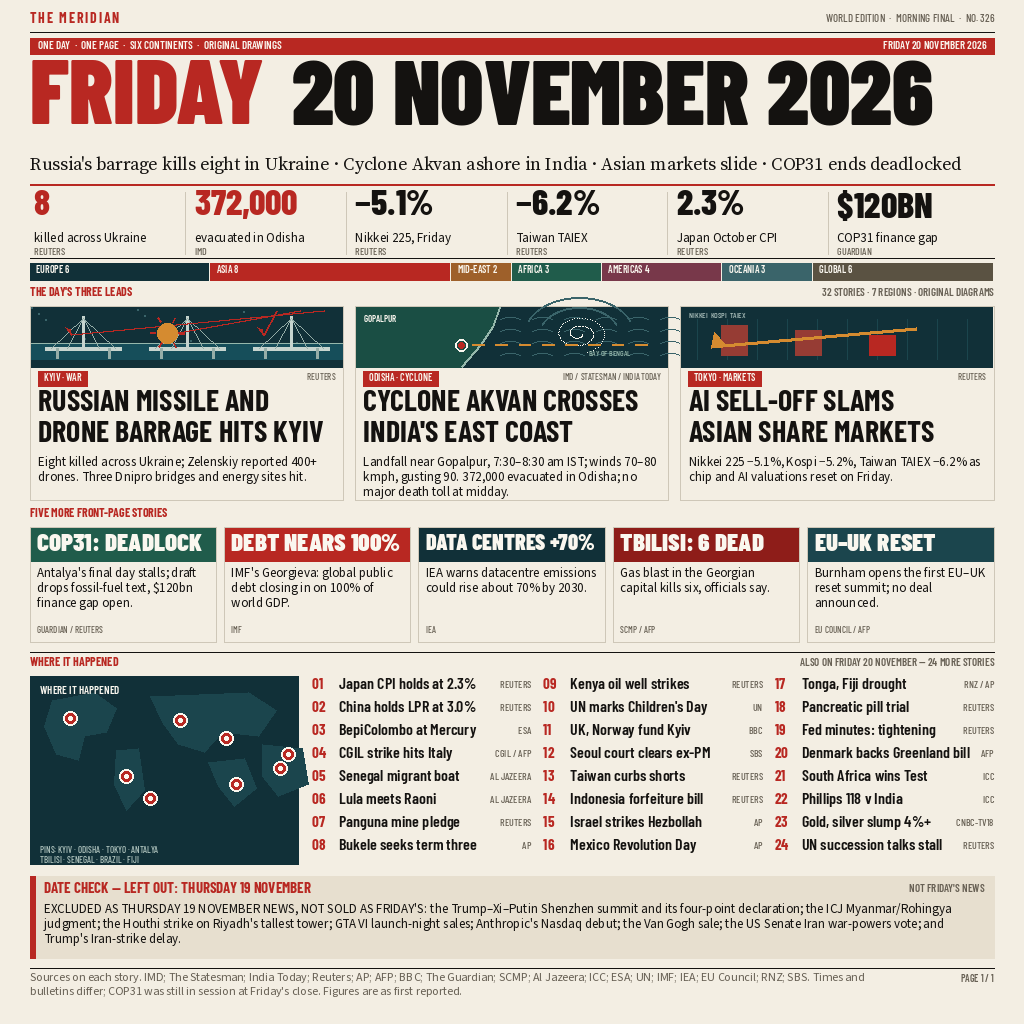
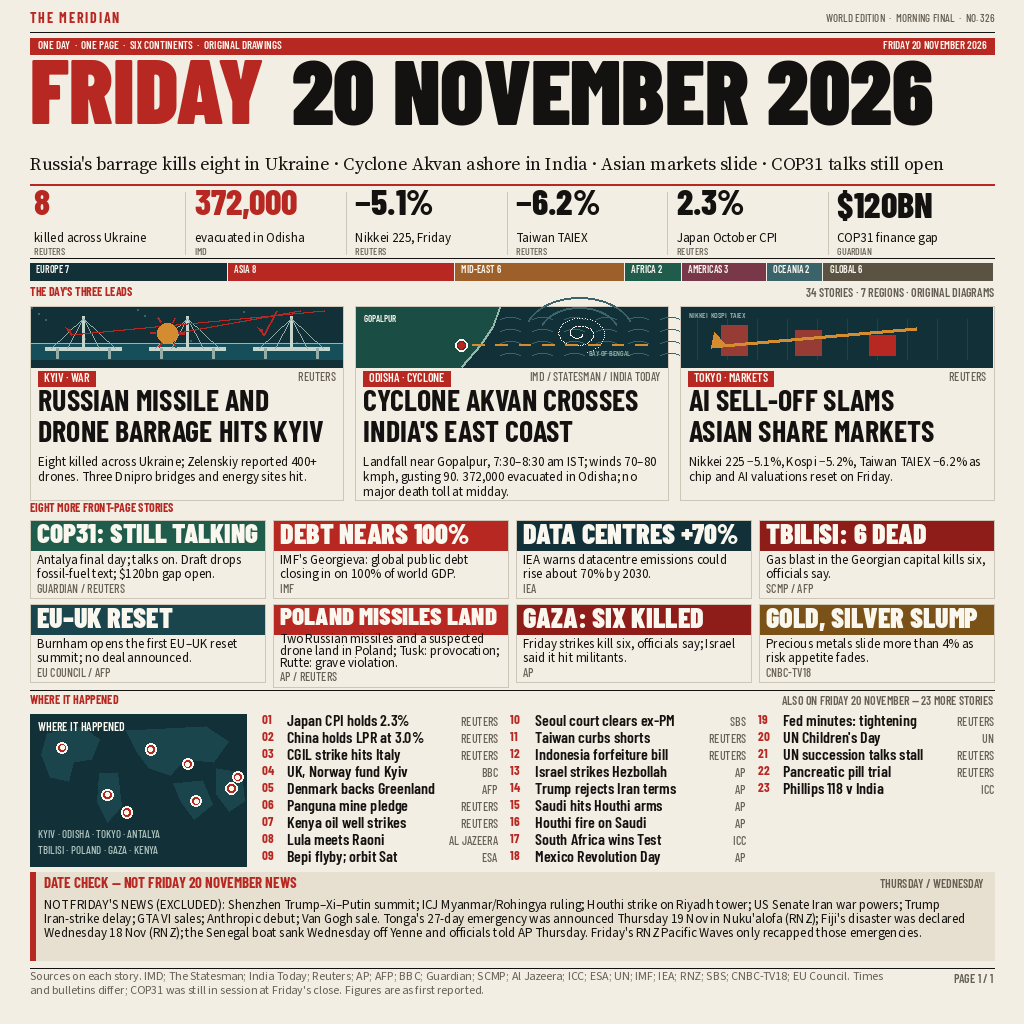
Drop Thursday Pacific items and thicken the Friday mid-grid
Tonga, Fiji and the Senegal boat leave the Friday list and enter the
date-check. COP31 now reads as talks still open. Eight short banner
cards sit in two rows so titles stay legible at 300px, with confirmed
Friday items on Poland, Gaza, Iran and the Saudi-Houthi exchanges.

diff --git a/tools/gen_entry.py b/tools/gen_entry.py
@@ -2,7 +2,7 @@
 """Rebuild The Meridian's Friday 20 November 2026 world-news front page.
 
 Offline, deterministic, local fonts only, 1024x1024 PNG.
-Typographic-first: the date, six figures, three leads and five banners are
+Typographic-first: the date, six figures, three leads and eight banner cards are
 drawn large enough to survive a reduction to roughly 300 pixels across.
 Illustrations are simple original diagrams, secondary to the type.
 """
@@ -26,6 +26,7 @@ MUTED = (103, 96, 84)
 FAINT = (206, 199, 184)
 TINT = (231, 223, 207)
 AMBER = (213, 139, 48)
+OCHRE = (122, 82, 24)
 GREEN = (32, 92, 75)
 WHITE = (250, 247, 239)
 
@@ -137,7 +138,7 @@ def tag(d, x, y, label, fill=RED, size=10.0):
     return wd
 
 
-def banner_font(s, maxw, hi=25, lo=19):
+def banner_font(s, maxw, hi=28, lo=22):
     for sz in range(hi, lo - 1, -1):
         f = F(DISPLAY, sz)
         if f.getlength(s) <= maxw:
@@ -221,25 +222,27 @@ def diag_markets(d, x, y, w, h):
 
 
 def draw_map(d, x, y, w, h):
+    sx, sy = w / 268.0, h / 188.0
     d.rectangle([x, y, x + w, y + h], fill=PETROL)
     shapes = [
         [(22, 24), (64, 16), (86, 32), (76, 56), (54, 60), (48, 84), (26, 78), (14, 50)],
         [(86, 74), (108, 72), (114, 114), (96, 134), (84, 108)],
         [(120, 20), (218, 16), (246, 34), (228, 60), (192, 56), (174, 76), (148, 68), (132, 46)],
         [(178, 86), (214, 82), (226, 112), (204, 130), (188, 110)],
-        [(232, 68), (272, 72), (278, 108), (248, 120), (232, 100)],
+        [(232, 68), (262, 72), (266, 108), (248, 120), (232, 100)],
     ]
     for pts in shapes:
-        d.polygon([(x + px, y + py) for px, py in pts], fill=PETROL2)
-    pins = [(40, 42, 1), (96, 100, 2), (150, 44, 3), (196, 62, 4),
-            (250, 92, 5), (206, 108, 6), (120, 122, 7), (258, 78, 8)]
-    for px, py, _ in pins:
-        ax, ay = x + px, y + py
-        d.ellipse([ax - 7, ay - 7, ax + 7, ay + 7], fill=RED, outline=WHITE, width=2)
+        d.polygon([(x + px * sx, y + py * sy) for px, py in pts], fill=PETROL2)
+    pins = [(40, 42), (96, 100), (150, 44), (196, 62),
+            (250, 92), (206, 108), (120, 122), (258, 78)]
+    r = max(4, 7 * min(sx, sy))
+    for px, py in pins:
+        ax, ay = x + px * sx, y + py * sy
+        d.ellipse([ax - r, ay - r, ax + r, ay + r], fill=RED, outline=WHITE, width=2)
         d.ellipse([ax - 2, ay - 2, ax + 2, ay + 2], fill=WHITE)
-    text(d, (x + 10, y + 10), "WHERE IT HAPPENED", F(SMALL, 11), WHITE)
-    text(d, (x + 10, y + h - 18), "PINS: KYIV \u00b7 ODISHA \u00b7 TOKYO \u00b7 ANTALYA", F(MICRO, 9), (176, 196, 190))
-    text(d, (x + 10, y + h - 8), "TBILISI \u00b7 SENEGAL \u00b7 BRAZIL \u00b7 FIJI", F(MICRO, 9), (176, 196, 190))
+    text(d, (x + 8, y + 8), "WHERE IT HAPPENED", F(SMALL, 12), WHITE)
+    text(d, (x + 8, y + h - 36), "KYIV \u00b7 ODISHA \u00b7 TOKYO \u00b7 ANTALYA", F(MICRO, 11), (176, 196, 190))
+    text(d, (x + 8, y + h - 20), "TBILISI \u00b7 POLAND \u00b7 GAZA \u00b7 KENYA", F(MICRO, 11), (176, 196, 190))
 
 
 # ------------------------------------------------------------------ content
@@ -274,8 +277,8 @@ LEADS = [
 ]
 
 BANNERS = [
-    dict(banner="COP31: DEADLOCK", fill=GREEN,
-         head="Antalya's final day stalls; draft drops fossil-fuel text, $120bn finance gap open.",
+    dict(banner="COP31: STILL TALKING", fill=GREEN,
+         head="Antalya final day; talks on. Draft drops fossil-fuel text; $120bn gap open.",
          source="GUARDIAN / REUTERS", region="MID-EAST"),
     dict(banner="DEBT NEARS 100%", fill=RED,
          head="IMF's Georgieva: global public debt closing in on 100% of world GDP.",
@@ -289,45 +292,54 @@ BANNERS = [
     dict(banner="EU\u2013UK RESET", fill=PETROL2,
          head="Burnham opens the first EU\u2013UK reset summit; no deal announced.",
          source="EU COUNCIL / AFP", region="EUROPE"),
+    dict(banner="POLAND MISSILES LAND", fill=RED,
+          head="Two Russian missiles and a suspected drone land in Poland; Tusk: provocation; Rutte: grave violation.",
+          source="AP / REUTERS", region="EUROPE"),
+    dict(banner="GAZA: SIX KILLED", fill=RED_D,
+         head="Friday strikes kill six, officials say; Israel said it hit militants.",
+         source="AP", region="MID-EAST"),
+    dict(banner="GOLD, SILVER SLUMP", fill=OCHRE,
+         head="Precious metals slide more than 4% as risk appetite fades.",
+         source="CNBC-TV18", region="ASIA"),
 ]
 
 MORE = [
-    ("Japan CPI holds at 2.3%", "REUTERS", "ASIA"),
+    ("Japan CPI holds 2.3%", "REUTERS", "ASIA"),
     ("China holds LPR at 3.0%", "REUTERS", "ASIA"),
-    ("BepiColombo at Mercury", "ESA", "GLOBAL"),
-    ("CGIL strike hits Italy", "CGIL / AFP", "EUROPE"),
-    ("Senegal migrant boat", "AL JAZEERA", "AFRICA"),
-    ("Lula meets Raoni", "AL JAZEERA", "AMERICAS"),
-    ("Panguna mine pledge", "REUTERS", "OCEANIA"),
-    ("Bukele seeks term three", "AP", "AMERICAS"),
-    ("Kenya oil well strikes", "REUTERS", "AFRICA"),
-    ("UN marks Children's Day", "UN", "GLOBAL"),
+    ("CGIL strike hits Italy", "REUTERS", "EUROPE"),
     ("UK, Norway fund Kyiv", "BBC", "EUROPE"),
+    ("Denmark backs Greenland", "AFP", "EUROPE"),
+    ("Panguna mine pledge", "REUTERS", "OCEANIA"),
+    ("Kenya oil well strikes", "REUTERS", "AFRICA"),
+    ("Lula meets Raoni", "AL JAZEERA", "AMERICAS"),
+    ("Bepi flyby; orbit Sat", "ESA", "GLOBAL"),
     ("Seoul court clears ex-PM", "SBS", "ASIA"),
     ("Taiwan curbs shorts", "REUTERS", "ASIA"),
     ("Indonesia forfeiture bill", "REUTERS", "ASIA"),
     ("Israel strikes Hezbollah", "AP", "MID-EAST"),
-    ("Mexico Revolution Day", "AP", "AMERICAS"),
-    ("Tonga, Fiji drought", "RNZ / AP", "OCEANIA"),
-    ("Pancreatic pill trial", "REUTERS", "GLOBAL"),
-    ("Fed minutes: tightening", "REUTERS", "AMERICAS"),
-    ("Denmark backs Greenland bill", "AFP", "EUROPE"),
+    ("Trump rejects Iran terms", "AP", "MID-EAST"),
+    ("Saudi hits Houthi arms", "AP", "MID-EAST"),
+    ("Houthi fire on Saudi", "AP", "MID-EAST"),
     ("South Africa wins Test", "ICC", "AFRICA"),
-    ("Phillips 118 v India", "ICC", "OCEANIA"),
-    ("Gold, silver slump 4%+", "CNBC-TV18", "ASIA"),
+    ("Mexico Revolution Day", "AP", "AMERICAS"),
+    ("Fed minutes: tightening", "REUTERS", "AMERICAS"),
+    ("UN Children's Day", "UN", "GLOBAL"),
     ("UN succession talks stall", "REUTERS", "GLOBAL"),
+    ("Pancreatic pill trial", "REUTERS", "GLOBAL"),
+    ("Phillips 118 v India", "ICC", "OCEANIA"),
 ]
 
 DATE_CHECK = (
-    "EXCLUDED AS THURSDAY 19 NOVEMBER NEWS, NOT SOLD AS FRIDAY'S: the Trump\u2013Xi\u2013Putin Shenzhen "
-    "summit and its four-point declaration; the ICJ Myanmar/Rohingya judgment; the Houthi strike on "
-    "Riyadh's tallest tower; GTA VI launch-night sales; Anthropic's Nasdaq debut; the Van Gogh sale; "
-    "the US Senate Iran war-powers vote; and Trump's Iran-strike delay."
+    "NOT FRIDAY'S NEWS (EXCLUDED): Shenzhen Trump\u2013Xi\u2013Putin summit; ICJ Myanmar/Rohingya ruling; "
+    "Houthi strike on Riyadh tower; US Senate Iran war powers; Trump Iran-strike delay; GTA VI sales; "
+    "Anthropic debut; Van Gogh sale. Tonga's 27-day emergency was announced Thursday 19 Nov in "
+    "Nuku'alofa (RNZ); Fiji's disaster was declared Wednesday 18 Nov (RNZ); the Senegal boat sank "
+    "Wednesday off Yenne and officials told AP Thursday. Friday's RNZ Pacific Waves only recapped those emergencies."
 )
 
 SOURCES = (
-    "Sources on each story. IMD; The Statesman; India Today; Reuters; AP; AFP; BBC; The Guardian; "
-    "SCMP; Al Jazeera; ICC; ESA; UN; IMF; IEA; EU Council; RNZ; SBS. "
+    "Sources on each story. IMD; The Statesman; India Today; Reuters; AP; AFP; BBC; Guardian; "
+    "SCMP; Al Jazeera; ICC; ESA; UN; IMF; IEA; RNZ; SBS; CNBC-TV18; EU Council. "
     "Times and bulletins differ; COP31 was still in session at Friday's close. Figures are as first reported."
 )
 
@@ -355,7 +367,7 @@ text(d, (M + fw + 10, 60), "20 NOVEMBER 2026", date_font, INK)
 
 # one-line deck
 text(d, (M, 156),
-     "Russia's barrage kills eight in Ukraine \u00b7 Cyclone Akvan ashore in India \u00b7 Asian markets slide \u00b7 COP31 ends deadlocked",
+     "Russia's barrage kills eight in Ukraine \u00b7 Cyclone Akvan ashore in India \u00b7 Asian markets slide \u00b7 COP31 talks still open",
      F(SERIF, 18), INK)
 rule(d, M, 184, W - M, 184, 2, RED)
 
@@ -388,7 +400,7 @@ for label, n, col in bar:
 
 # three leads
 text(d, (M, 287), "THE DAY'S THREE LEADS", F(HEADB, 12), RED)
-text(d, (W - M, 288), f"{len(LEADS) + len(BANNERS) + len(MORE)} STORIES \u00b7 {len(REGIONS)} REGIONS \u00b7 ORIGINAL DIAGRAMS", F(SMALL, 11), MUTED, anchor="rt")
+text(d, (W - M, 288), f"{len(LEADS) + len(BANNERS) + len(MORE)} STORIES \u00b7 {len(REGIONS)} REGIONS \u00b7 ORIGINAL DIAGRAMS", F(SMALL, 12), MUTED, anchor="rt")
 
 lgap = 12
 lw = (CW - 2 * lgap) / 3
@@ -396,55 +408,63 @@ for i, feat in enumerate(LEADS):
     lx = M + i * (lw + lgap)
     d.rectangle([lx, 306, lx + lw, 500], outline=FAINT, width=1)
     feat["diagram"](d, int(lx) + 1, 307, int(lw) - 2, 60)
-    tw = tag(d, int(lx) + 8, 371, feat["tag"], fill=feat["tagc"], size=10)
-    text(d, (lx + lw - 8, 373), feat["source"], F(MICRO, 9), MUTED, anchor="rt")
+    tw = tag(d, int(lx) + 8, 371, feat["tag"], fill=feat["tagc"], size=12)
+    text(d, (lx + lw - 8, 372), feat["source"], F(MICRO, 12), MUTED, anchor="rt")
     for j, line in enumerate(feat["head"].split("\n")):
         text(d, (lx + 8, 390 + j * 31), line, F(HEADB, 30), INK)
     para(d, feat["deck"], F(SANS, 13), lx + 8, 456, lw - 16, 15, INK, max_lines=3)
 
-# five banner cards
-text(d, (M, 508), "FIVE MORE FRONT-PAGE STORIES", F(HEADB, 12), RED)
+# eight banner cards, two rows of four
+text(d, (M, 503), "EIGHT MORE FRONT-PAGE STORIES", F(HEADB, 12), RED)
 bgap = 8
-bw = (CW - 4 * bgap) / 5
+bw = (CW - 3 * bgap) / 4
 for i, card in enumerate(BANNERS):
-    bx = M + i * (bw + bgap)
-    d.rectangle([bx, 527, bx + bw, 642], outline=FAINT, width=1)
-    d.rectangle([bx + 1, 528, bx + bw - 1, 561], fill=card["fill"])
+    row, col = divmod(i, 4)
+    by0 = 520 + row * 84
+    bx = M + col * (bw + bgap)
+    bodyf = F(SANS, 13)
+    tight = len(wrap(card["head"], bodyf, bw - 14)) > 2
+    d.rectangle([bx, by0, bx + bw, by0 + (83 if tight else 78)], outline=FAINT, width=1)
+    d.rectangle([bx + 1, by0 + 1, bx + bw - 1, by0 + 30], fill=card["fill"])
     bf = banner_font(card["banner"], bw - 14)
-    text(d, (bx + 7, 534), card["banner"], bf, WHITE)
-    para(d, card["head"], F(SANS, 13), bx + 7, 567, bw - 14, 15, INK, max_lines=3)
-    text(d, (bx + 7, 626), card["source"], F(MICRO, 9), MUTED)
+    text(d, (bx + 7, by0 + 4), card["banner"], bf, WHITE)
+    if tight:
+        para(d, card["head"], bodyf, bx + 7, by0 + 29, bw - 14, 12, INK, max_lines=3)
+        text(d, (bx + 7, by0 + 68), card["source"], F(MICRO, 12), MUTED)
+    else:
+        para(d, card["head"], bodyf, bx + 7, by0 + 34, bw - 14, 14, INK, max_lines=3)
+        text(d, (bx + 7, by0 + 64), card["source"], F(MICRO, 12), MUTED)
 
 # where it happened / also on Friday
-rule(d, M, 652, W - M, 652, 1, INK)
-text(d, (M, 657), "WHERE IT HAPPENED", F(HEADB, 12), RED)
-text(d, (W - M, 658), f"ALSO ON FRIDAY 20 NOVEMBER \u2014 {len(MORE)} MORE STORIES", F(SMALL, 11), MUTED, anchor="rt")
+rule(d, M, 690, W - M, 690, 1, INK)
+text(d, (M, 695), "WHERE IT HAPPENED", F(HEADB, 12), RED)
+text(d, (W - M, 696), f"ALSO ON FRIDAY 20 NOVEMBER \u2014 {len(MORE)} MORE STORIES", F(SMALL, 12), MUTED, anchor="rt")
 
-draw_map(d, M, 676, 268, 188)
+draw_map(d, M, 714, 216, 152)
 
-lx0 = M + 282
+lx0 = M + 232
 listw = (W - M - lx0 - 2 * 12) / 3
 for i, (head, src, _) in enumerate(MORE):
-    col, row = divmod(i, 8)
+    col, row = divmod(i, 9)
     bx = lx0 + col * (listw + 12)
-    by = 678 + row * 23
-    text(d, (bx, by), f"{i+1:02d}", F(HEADB, 15), RED)
-    sf = F(MICRO, 10)
+    by = 715 + row * 17
+    text(d, (bx, by), f"{i+1:02d}", F(HEADB, 13), RED)
+    sf = F(MICRO, 12)
     sw = sf.getlength(src) + 6
-    text(d, (bx + listw, by + 3), src, sf, MUTED, anchor="rt")
-    text(d, (bx + 27, by), fit(head, F(SMALL, 16), listw - 29 - sw), F(SMALL, 16), INK)
+    text(d, (bx + listw, by + 2), src, sf, MUTED, anchor="rt")
+    text(d, (bx + 25, by), fit(head, F(SMALL, 16), listw - 27 - sw), F(SMALL, 16), INK)
 
 # date check
-d.rectangle([M, 876, W - M, 958], fill=TINT)
-d.rectangle([M, 876, M + 5, 958], fill=RED)
-text(d, (M + 14, 882), "DATE CHECK \u2014 LEFT OUT: THURSDAY 19 NOVEMBER", F(HEADB, 15), RED)
-text(d, (W - M - 10, 884), "NOT FRIDAY'S NEWS", F(SMALL, 11), MUTED, anchor="rt")
-para(d, DATE_CHECK, F(SANS, 13), M + 14, 903, CW - 28, 15, INK, max_lines=4)
+d.rectangle([M, 872, W - M, 960], fill=TINT)
+d.rectangle([M, 872, M + 5, 960], fill=RED)
+text(d, (M + 14, 877), "DATE CHECK \u2014 NOT FRIDAY 20 NOVEMBER NEWS", F(HEADB, 15), RED)
+text(d, (W - M - 10, 879), "THURSDAY / WEDNESDAY", F(SMALL, 12), MUTED, anchor="rt")
+para(d, DATE_CHECK, F(SANS, 13), M + 14, 898, CW - 28, 14, INK, max_lines=4)
 
 # footer
 rule(d, M, 968, W - M, 968, 1, INK)
-para(d, SOURCES, F(SANS, 12), M, 973, CW - 110, 14, MUTED, max_lines=2)
-text(d, (W - M, 974), "PAGE 1 / 1", F(SMALL, 10), MUTED, anchor="rt")
+para(d, SOURCES, F(SANS, 12), M, 972, CW - 110, 14, MUTED, max_lines=3)
+text(d, (W - M, 974), "PAGE 1 / 1", F(SMALL, 12), MUTED, anchor="rt")
 
 # out-of-bounds audit
 warn = 0
@@ -460,7 +480,7 @@ out = os.path.join(os.path.dirname(os.path.abspath(__file__)), "..", "entry.png"
 img.save(out, "PNG", optimize=True, compress_level=9)
 print("saved", out, os.path.getsize(out), "bytes", img.size)
 
-prev_dir = "/tmp/news-top30"
+prev_dir = "/tmp/news-follow"
 os.makedirs(prev_dir, exist_ok=True)
 small = img.resize((300, 300), Image.LANCZOS)
 small.save(os.path.join(prev_dir, "entry-300.png"), "PNG")
